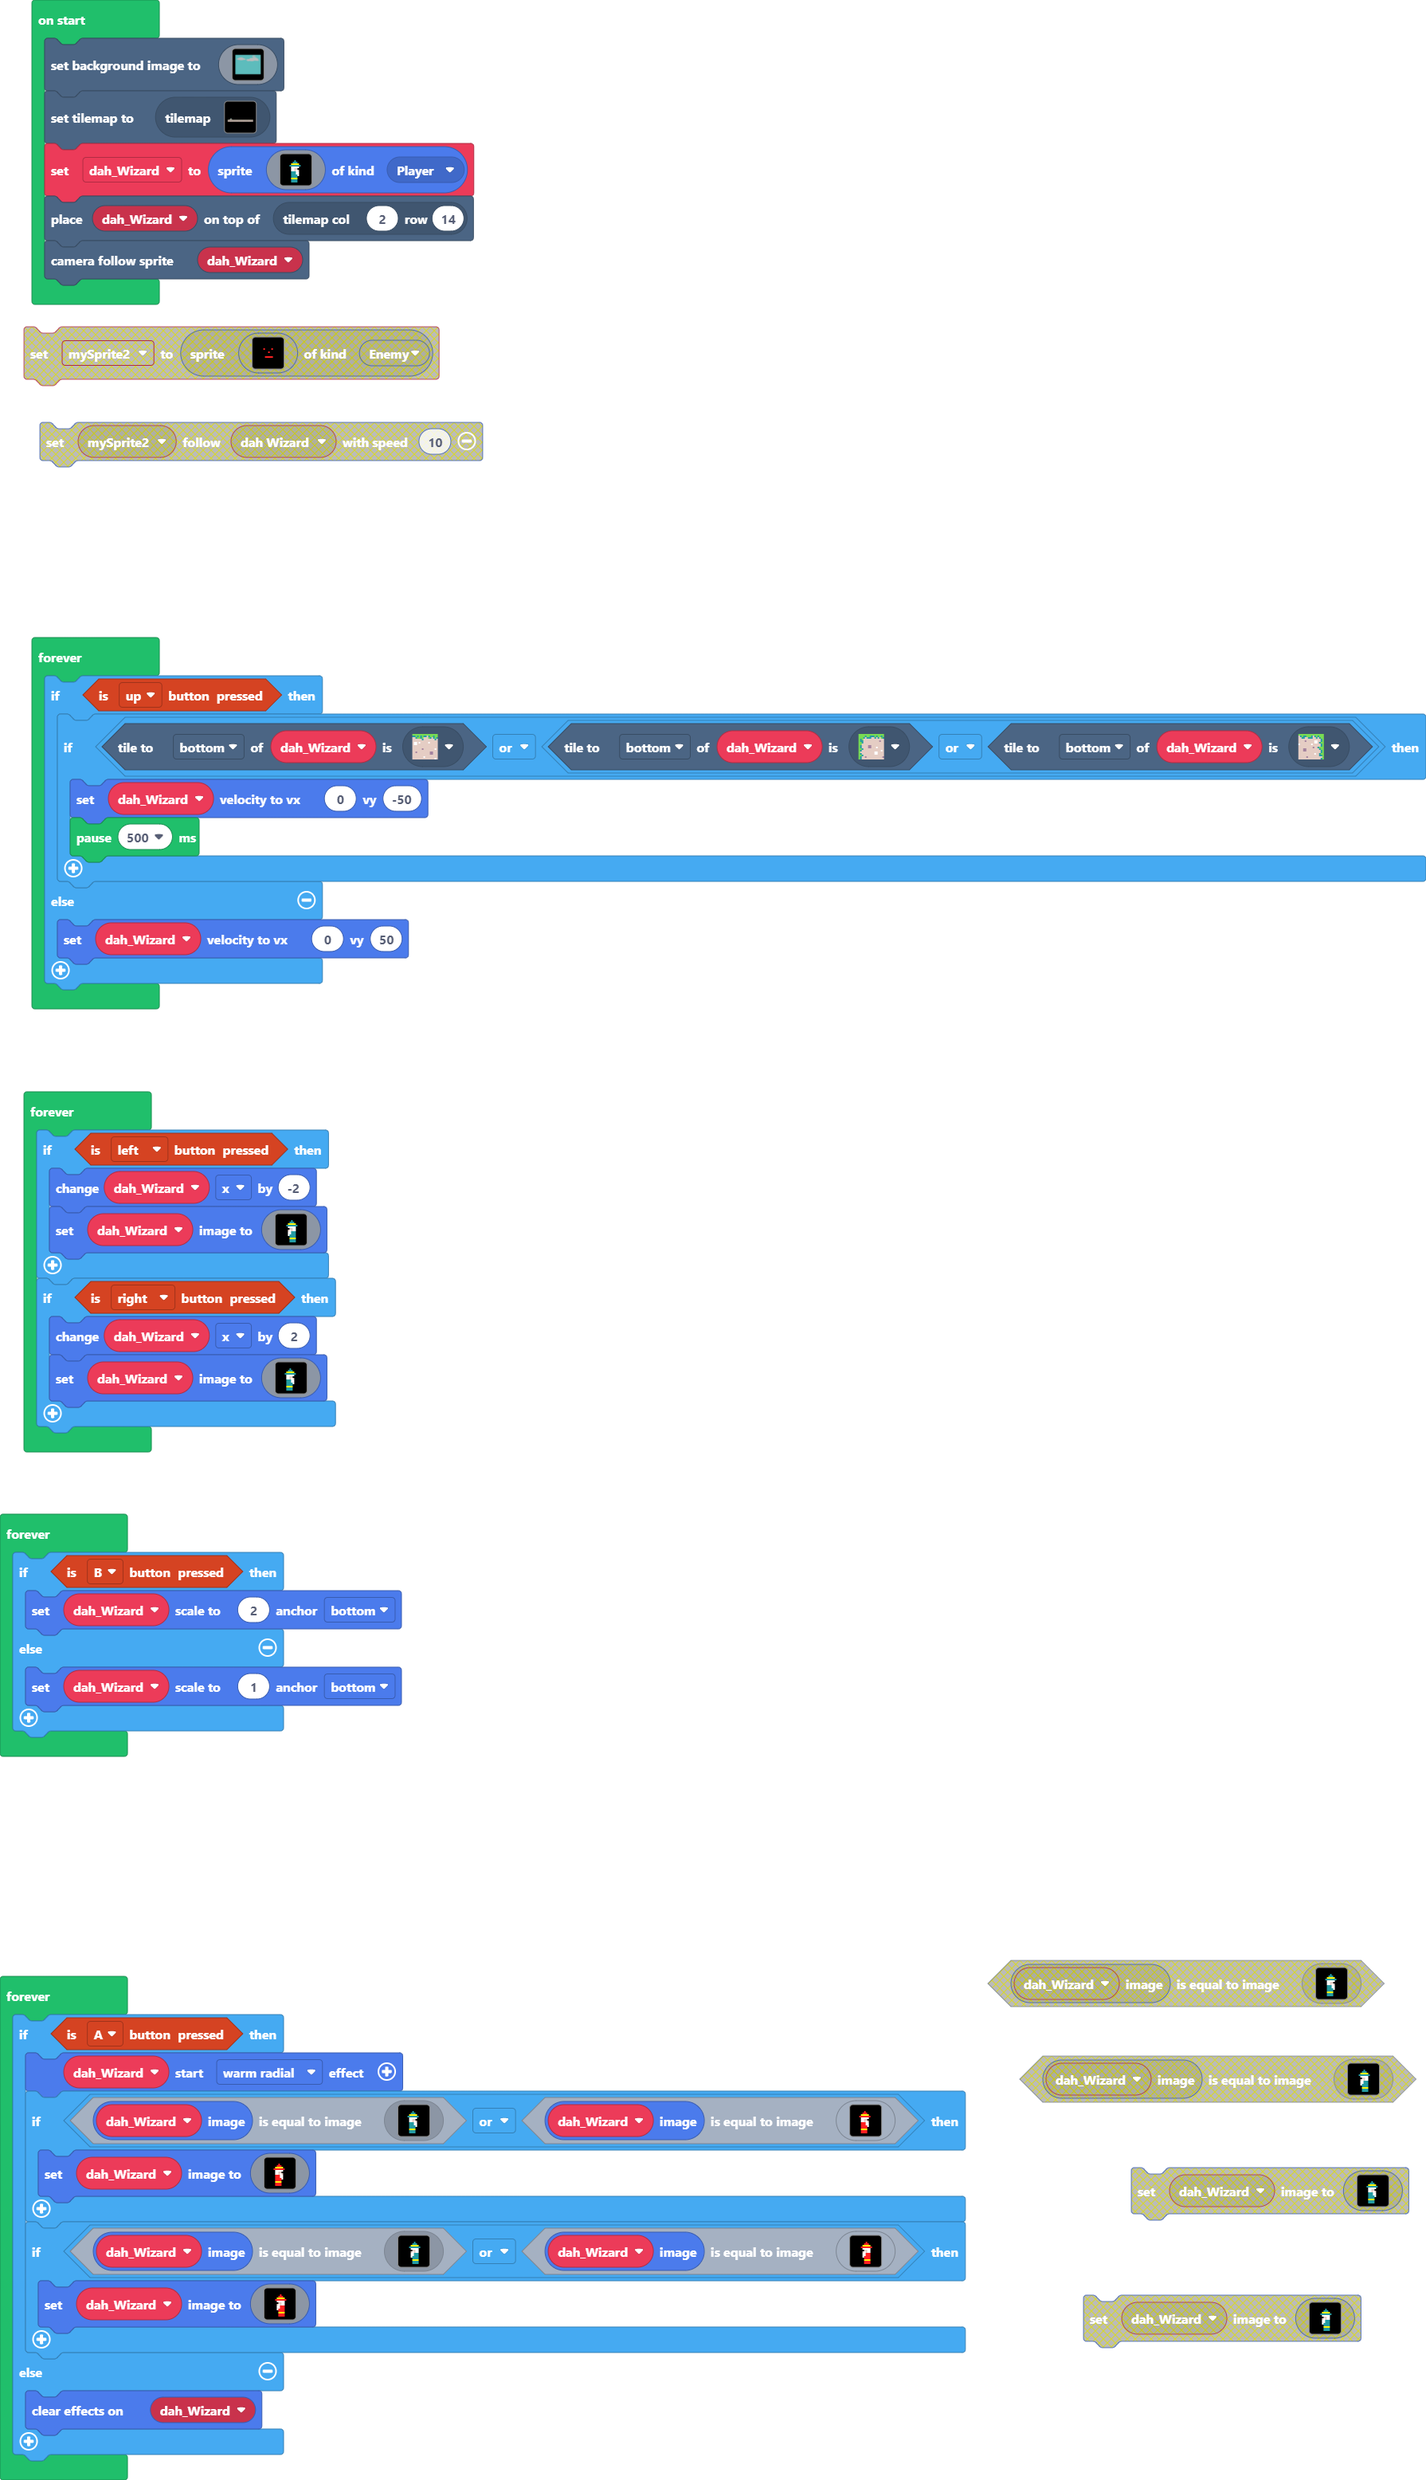
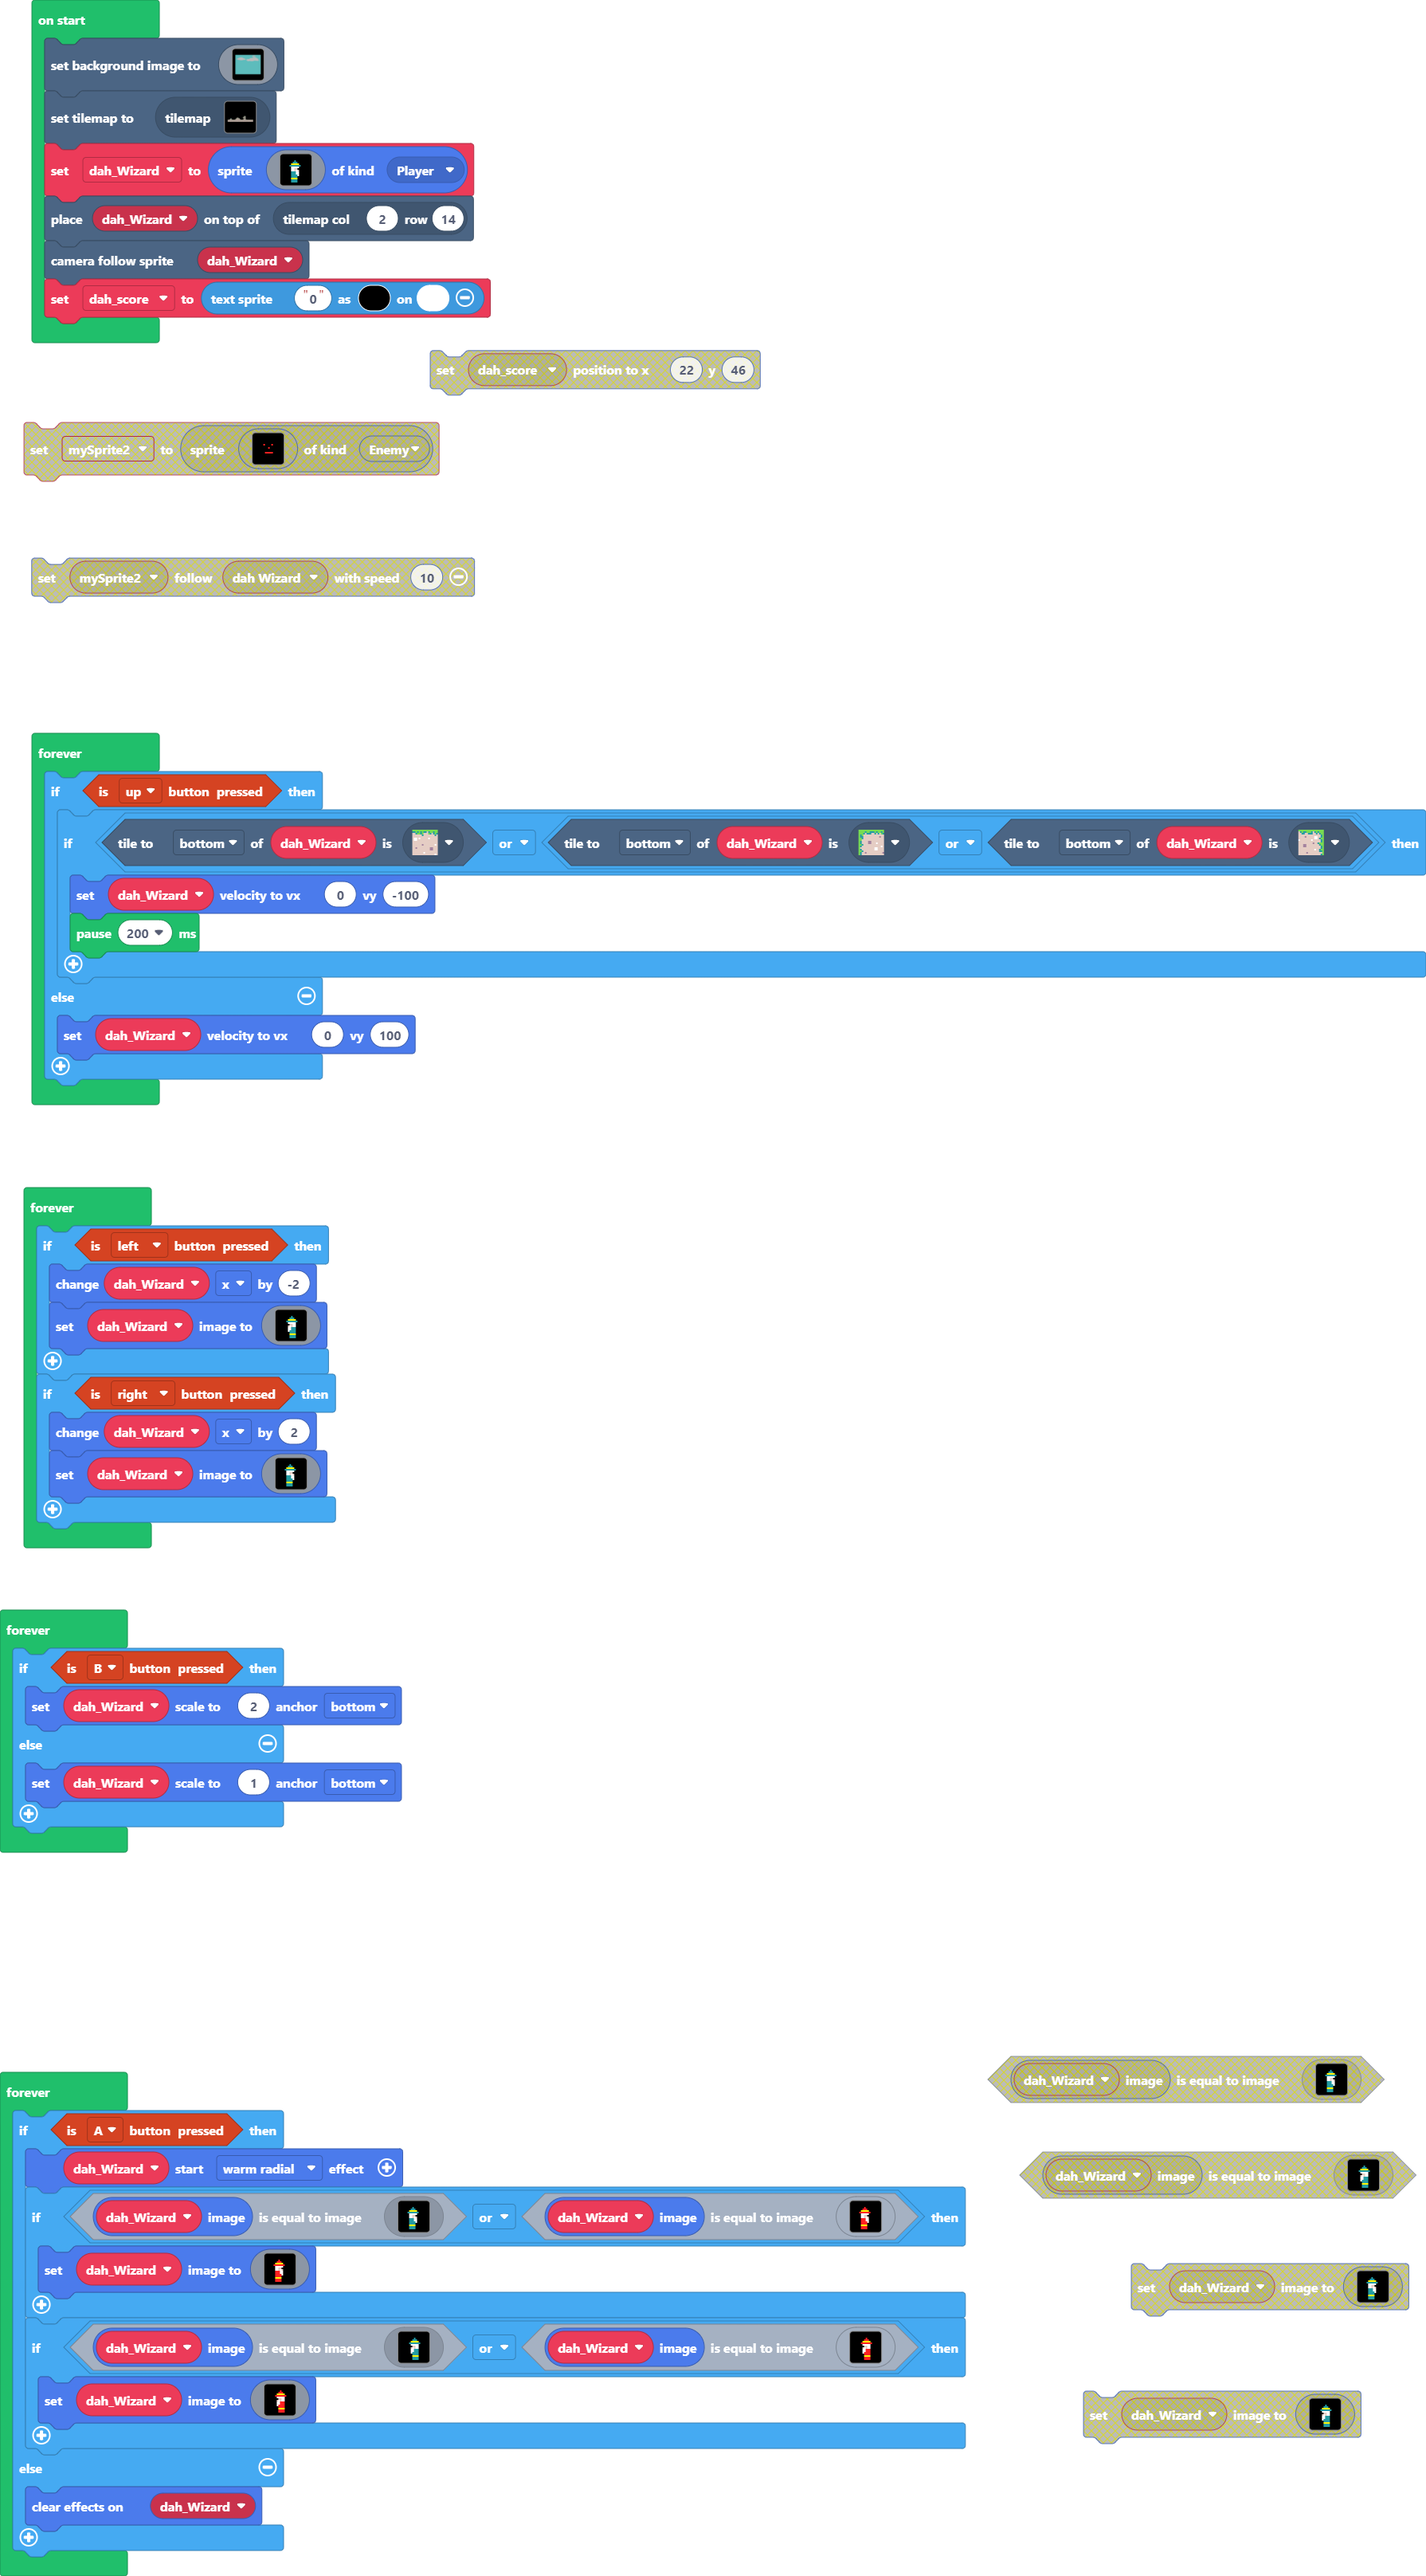
Update pxt.json, main.blocks, main.ts, tilemap.g.jres, tilemap.g.ts

diff --git a/tilemap.g.ts b/tilemap.g.ts
@@ -44,7 +44,7 @@ namespace myTiles {
 . . . . . . . . . . . . . . . . 
 `, [myTiles.transparency16], TileScale.Sixteen);
             case "level1":
-            case "level1":return tiles.createTilemap(hex`3200140000000000000000000000000000000000000000000000000000000000000000000000000000000000000000000000000000000000000000000000000000000000000000000000000000000000000000000000000000000000000000000000000000000000000000000000000000000000000000000000000000000000000000000000000000000000000000000000000000000000000000000000000000000000000000000000000000000000000000000000000000000000000000000000000000000000000000000000000000000000000000000000000000000000000000000000000000000000000000000000000000000000000000000000000000000000000000000000000000000000000000000000000000000000000000000000000000000000000000000000000000000000000000000000000000000000000000000000000000000000000000000000000000000000000000000000000000000000000000000000000000000000000000000000000000000000000000000000000000000000000000000000000000000000000000000000000000000000000000000000000000000000000000000000000000000000000000000000000000000000000000000000000000000000000000000000000000000000000000000000000000000000000000000000000000000000000000000000000000000000000000000000000000000000000000000000000000000000000000000000000000000000000000000000000000000000000000000000000000000000000000000000000000000000000000000000000000000000000000000000000000000000000000000000000000000000000000000000000000000000000000000000000000000000000000000000000000000000000000000600000000000000000000000000000000000000000000000000000000000000000000000000000000000000000000000004010300000000000000000000000000000000000000000000000000000000000000000000000000000000000000000000040202050000000000000000000000000000000000000000000000000000000000000000000000000000000000000101010102020202010101010101010101010101010101010101010101010101010101010101010101010101010101010101020202020202020202020202020202020202020202020202020202020202020202020202020202020202020202020202020202020202020202020202020202020202020202020202020202020202020202020202020202020202020202020202020202020202020202020202020202020202020202020202020202020202020202020202020202020202020202020202020202020202`, img`
+            case "level1":return tiles.createTilemap(hex`3200140000000000000000000000000000000000000000000000000000000000000000000000000000000000000000000000000000000000000000000000000000000000000000000000000000000000000000000000000000000000000000000000000000000000000000000000000000000000000000000000000000000000000000000000000000000000000000000000000000000000000000000000000000000000000000000000000000000000000000000000000000000000000000000000000000000000000000000000000000000000000000000000000000000000000000000000000000000000000000000000000000000000000000000000000000000000000000000000000000000000000000000000000000000000000000000000000000000000000000000000000000000000000000000000000000000000000000000000000000000000000000000000000000000000000000000000000000000000000000000000000000000000000000000000000000000000000000000000000000000000000000000000000000000000000000000000000000000000000000000000000000000000000000000000000000000000000000000000000000000000000000000000000000000000000000000000000000000000000000000000000000000401030000000000000000000000000000000000000000000000000000000000000000000000000000000000000000000000070205000000000000000000000000000000000000000000000000000000000000000000000000000000000000000000040102020500000000000000000000000000000000000000000000000000000000000000000004010300000000000000000009080802050000000000000000000000000000000000000000000600000000000000000000040202020103000000000000000000000705000000000000000000000000000000000000000004010300000000000000000402020202020203000000000000000401020500000000000000000000000000000000000000040202050000000000000004020202020202020203000000000000070202020300000000000000000000000000000101010102020202010101010101010202020202020202020201010101010102020202020101010101010101010101010101020202020202020202020202020202020202020202020202020202020202020202020202020202020202020202020202020202020202020202020202020202020202020202020202020202020202020202020202020202020202020202020202020202020202020202020202020202020202020202020202020202020202020202020202020202020202020202020202020202020202`, img`
 ..................................................
 ..................................................
 ..................................................
@@ -54,18 +54,18 @@ namespace myTiles {
 ..................................................
 ..................................................
 ..................................................
-..................................................
-..................................................
-..................................................
-..................................................
-..................................................
-.....222..........................................
-....2222..........................................
+................................222...............
+................................222...............
+..............................22222...............
+..................222.........22222...............
+.................222222..........22...............
+.....222........22222222.......2222...............
+....2222.......2222222222......22222..............
 22222222222222222222222222222222222222222222222222
 22222222222222222222222222222222222222222222222222
 22222222222222222222222222222222222222222222222222
 22222222222222222222222222222222222222222222222222
-`, [myTiles.transparency16,sprites.castle.tilePath2,sprites.castle.tilePath5,sprites.castle.tilePath3,sprites.castle.tilePath1,sprites.castle.tilePath6,sprites.dungeon.collectibleInsignia], TileScale.Sixteen);
+`, [myTiles.transparency16,sprites.castle.tilePath2,sprites.castle.tilePath5,sprites.castle.tilePath3,sprites.castle.tilePath1,sprites.castle.tilePath6,sprites.dungeon.collectibleInsignia,sprites.castle.tilePath4,sprites.castle.tilePath8,sprites.castle.tilePath7], TileScale.Sixteen);
         }
         return null;
     })

diff --git a/main.ts b/main.ts
@@ -3,14 +3,15 @@ tiles.setCurrentTilemap(tilemap`level1`)
 let dah_Wizard = sprites.create(assets.image`dah Wizard right`, SpriteKind.Player)
 tiles.placeOnTile(dah_Wizard, tiles.getTileLocation(2, 14))
 scene.cameraFollowSprite(dah_Wizard)
+let dah_score = textsprite.create("0", 1, 15)
 forever(function () {
     if (controller.up.isPressed()) {
         if (dah_Wizard.tileKindAt(TileDirection.Bottom, sprites.castle.tilePath2) || (dah_Wizard.tileKindAt(TileDirection.Bottom, sprites.castle.tilePath1) || dah_Wizard.tileKindAt(TileDirection.Bottom, sprites.castle.tilePath3))) {
-            dah_Wizard.setVelocity(0, -50)
-            pause(500)
+            dah_Wizard.setVelocity(0, -100)
+            pause(200)
         }
     } else {
-        dah_Wizard.setVelocity(0, 50)
+        dah_Wizard.setVelocity(0, 100)
     }
 })
 forever(function () {
